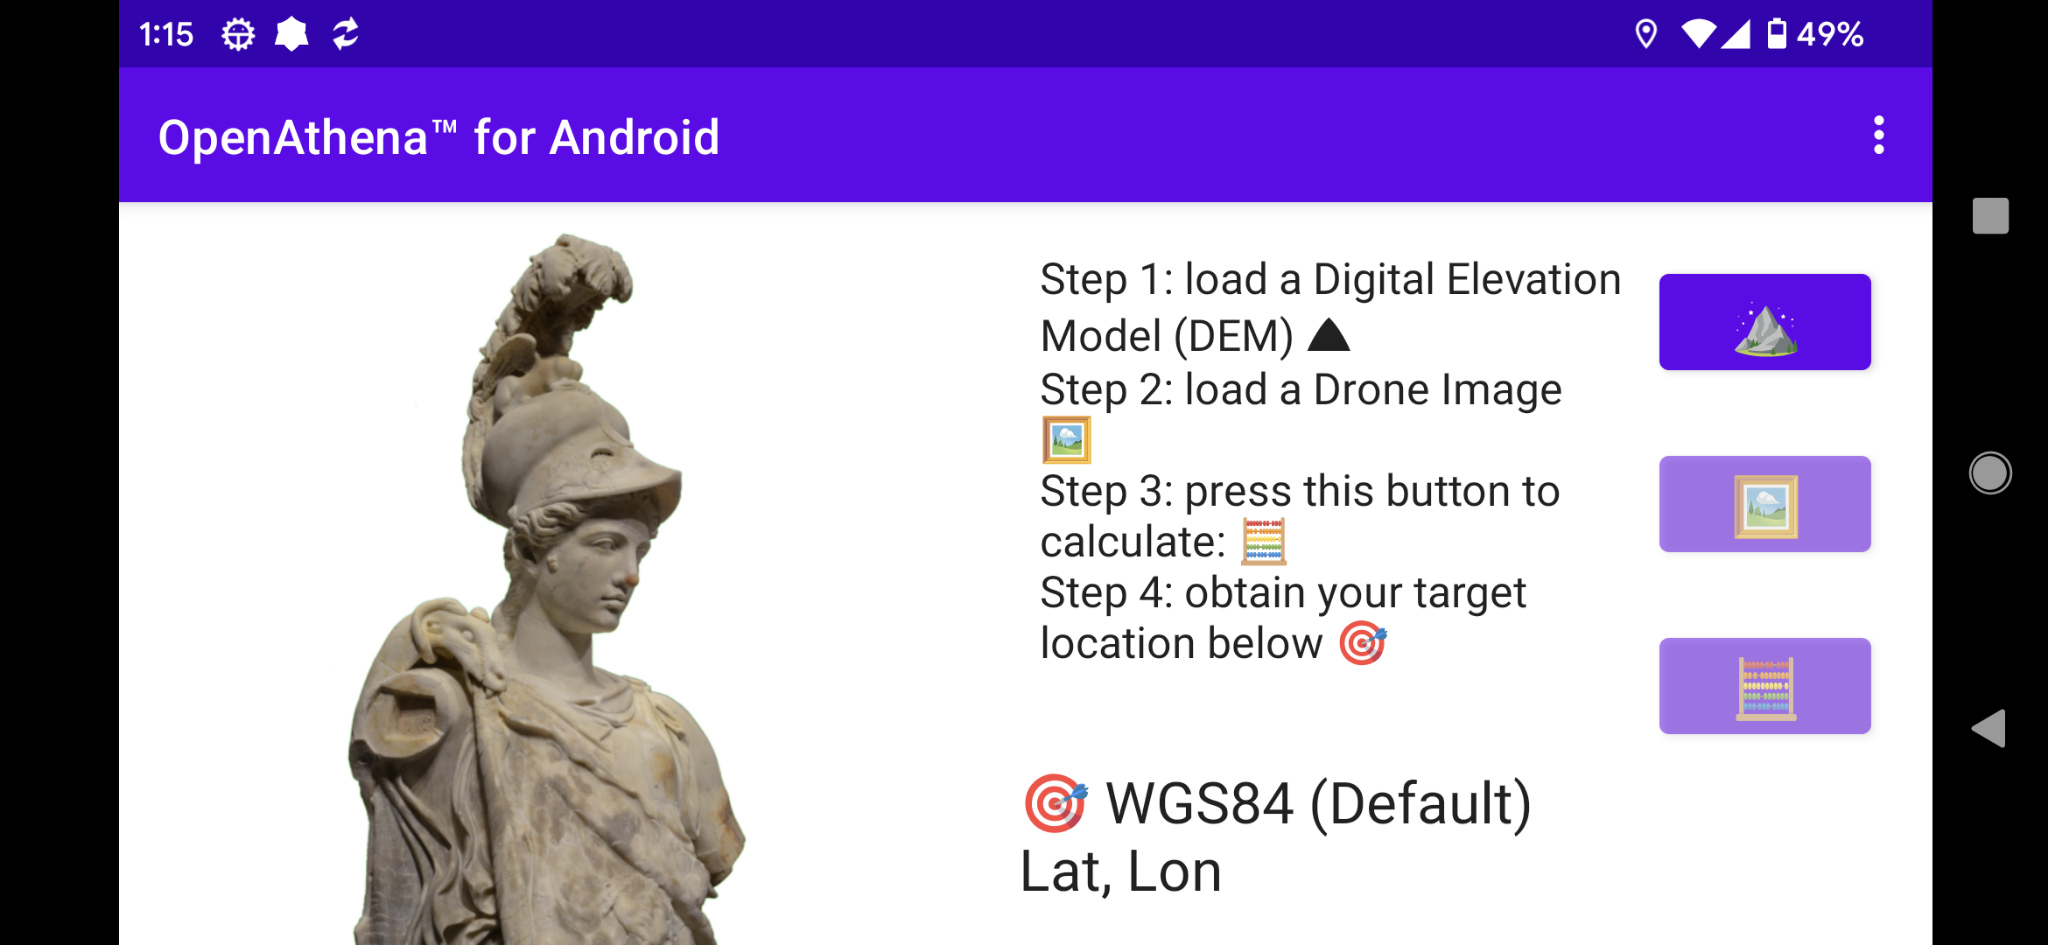
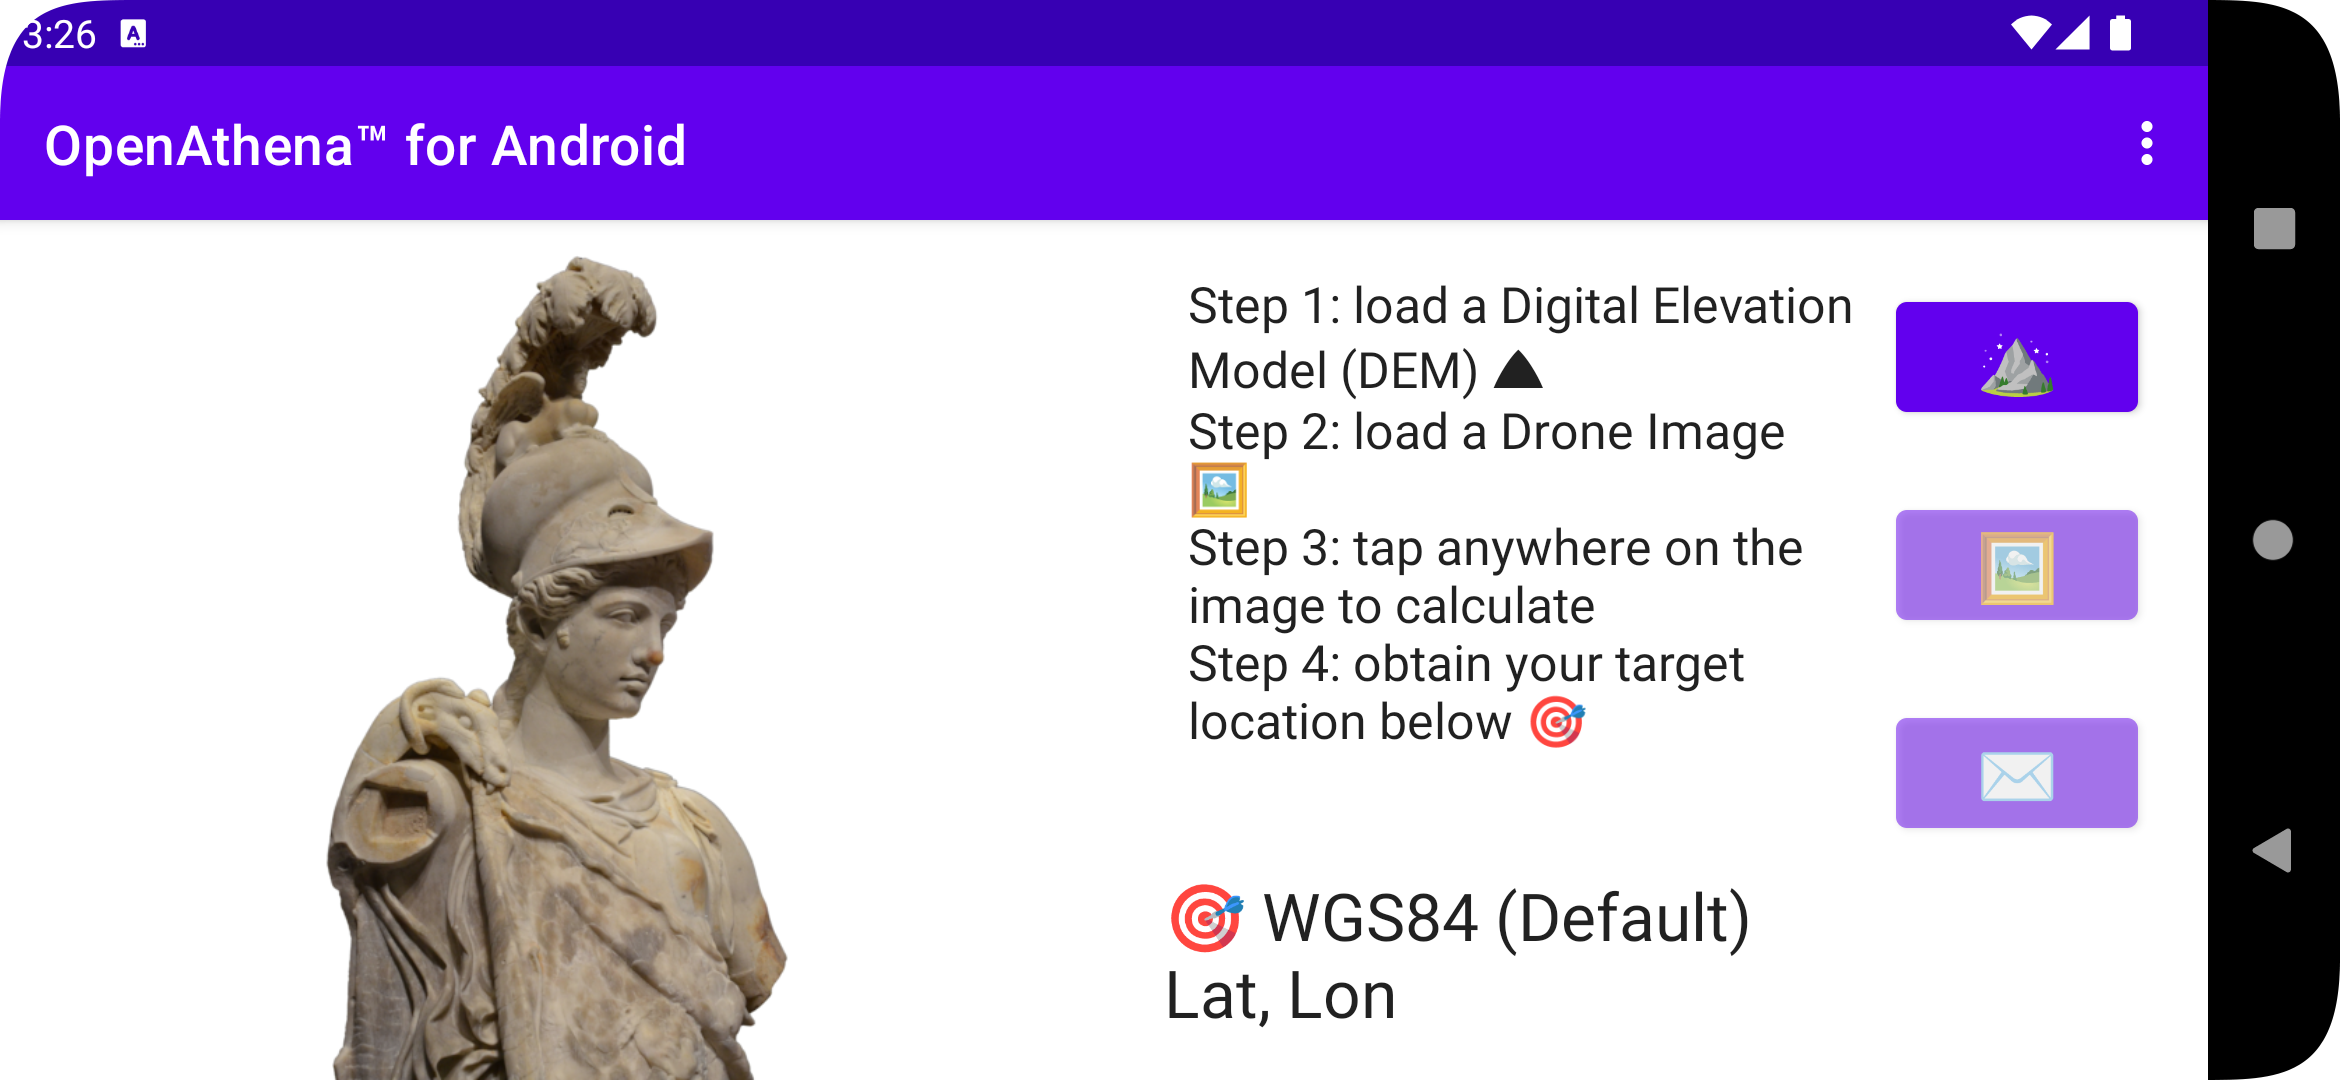
README.md update most screenshots with new send button graphic

diff --git a/app/src/main/java/com/openathena/MainActivity.java b/app/src/main/java/com/openathena/MainActivity.java
@@ -553,7 +553,7 @@ public class MainActivity extends AthenaActivity {
         clearText();
         textViewTargetCoord.setText("");
 
-        appendText(getString(R.string.calculating_target_msg));
+        appendText(getString(R.string.calculating_target_msg) + "\n");
 //        appendLog("Going to start calculation\n");
 
         if (imageUri == null) {
